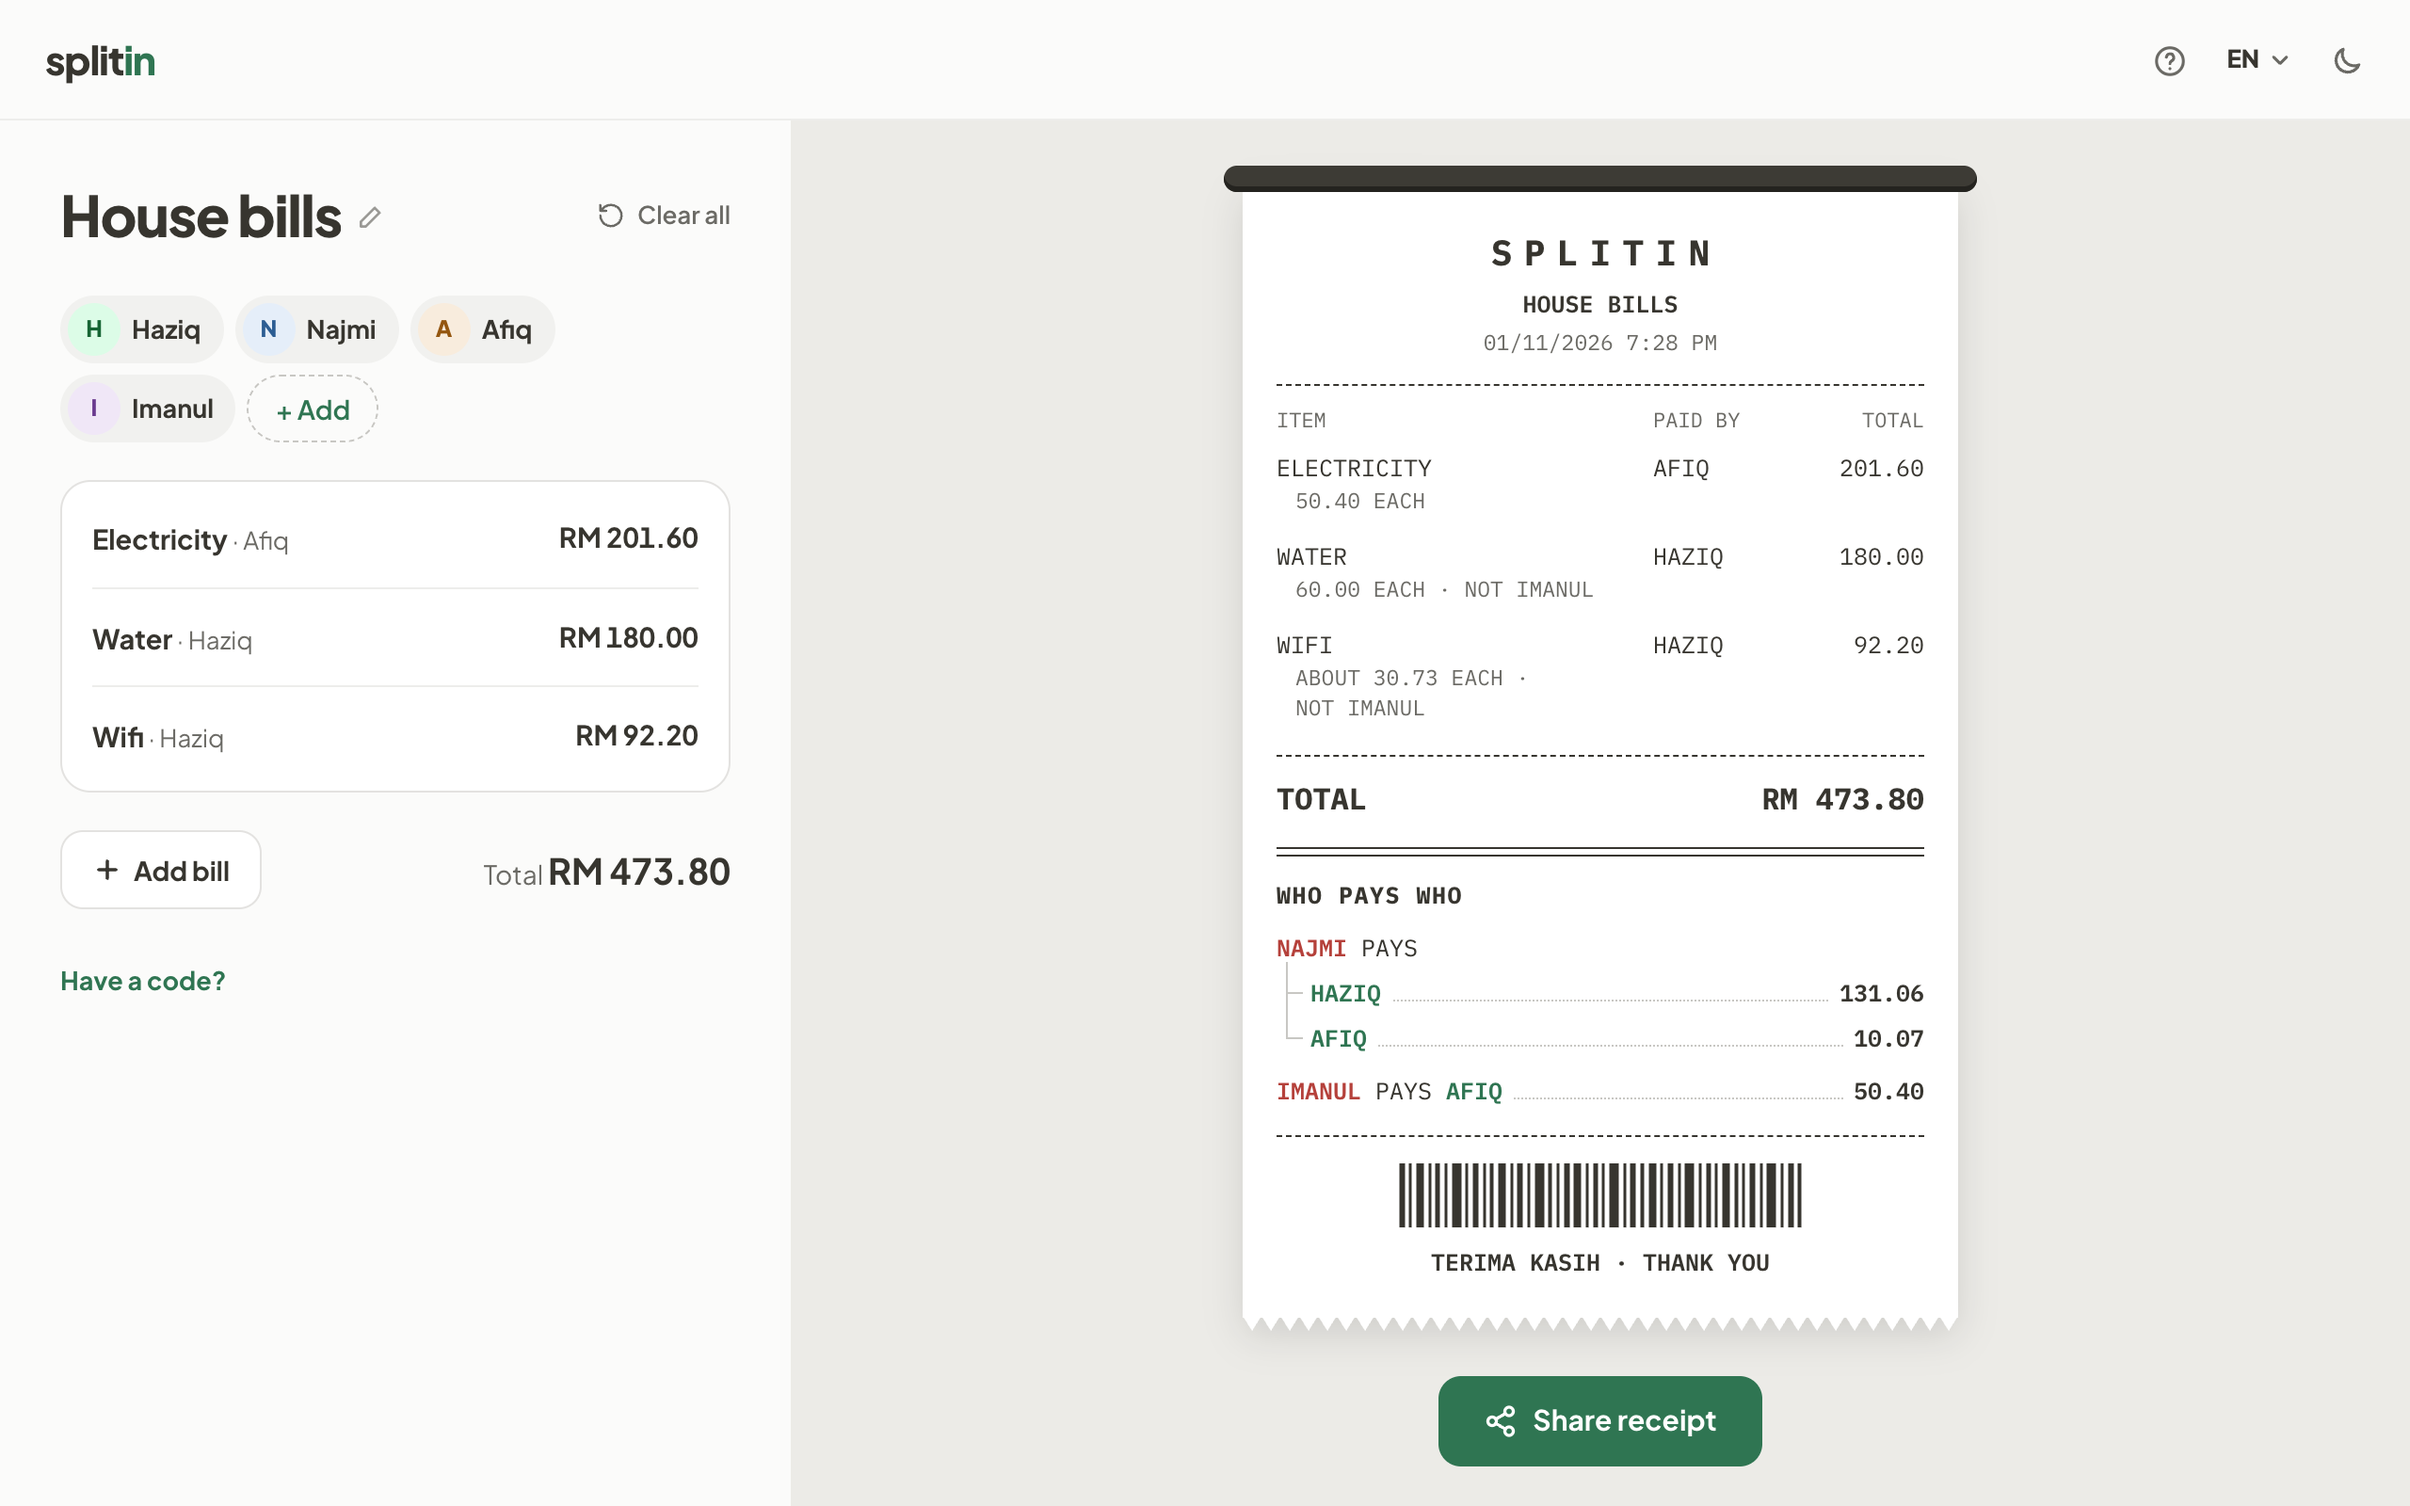
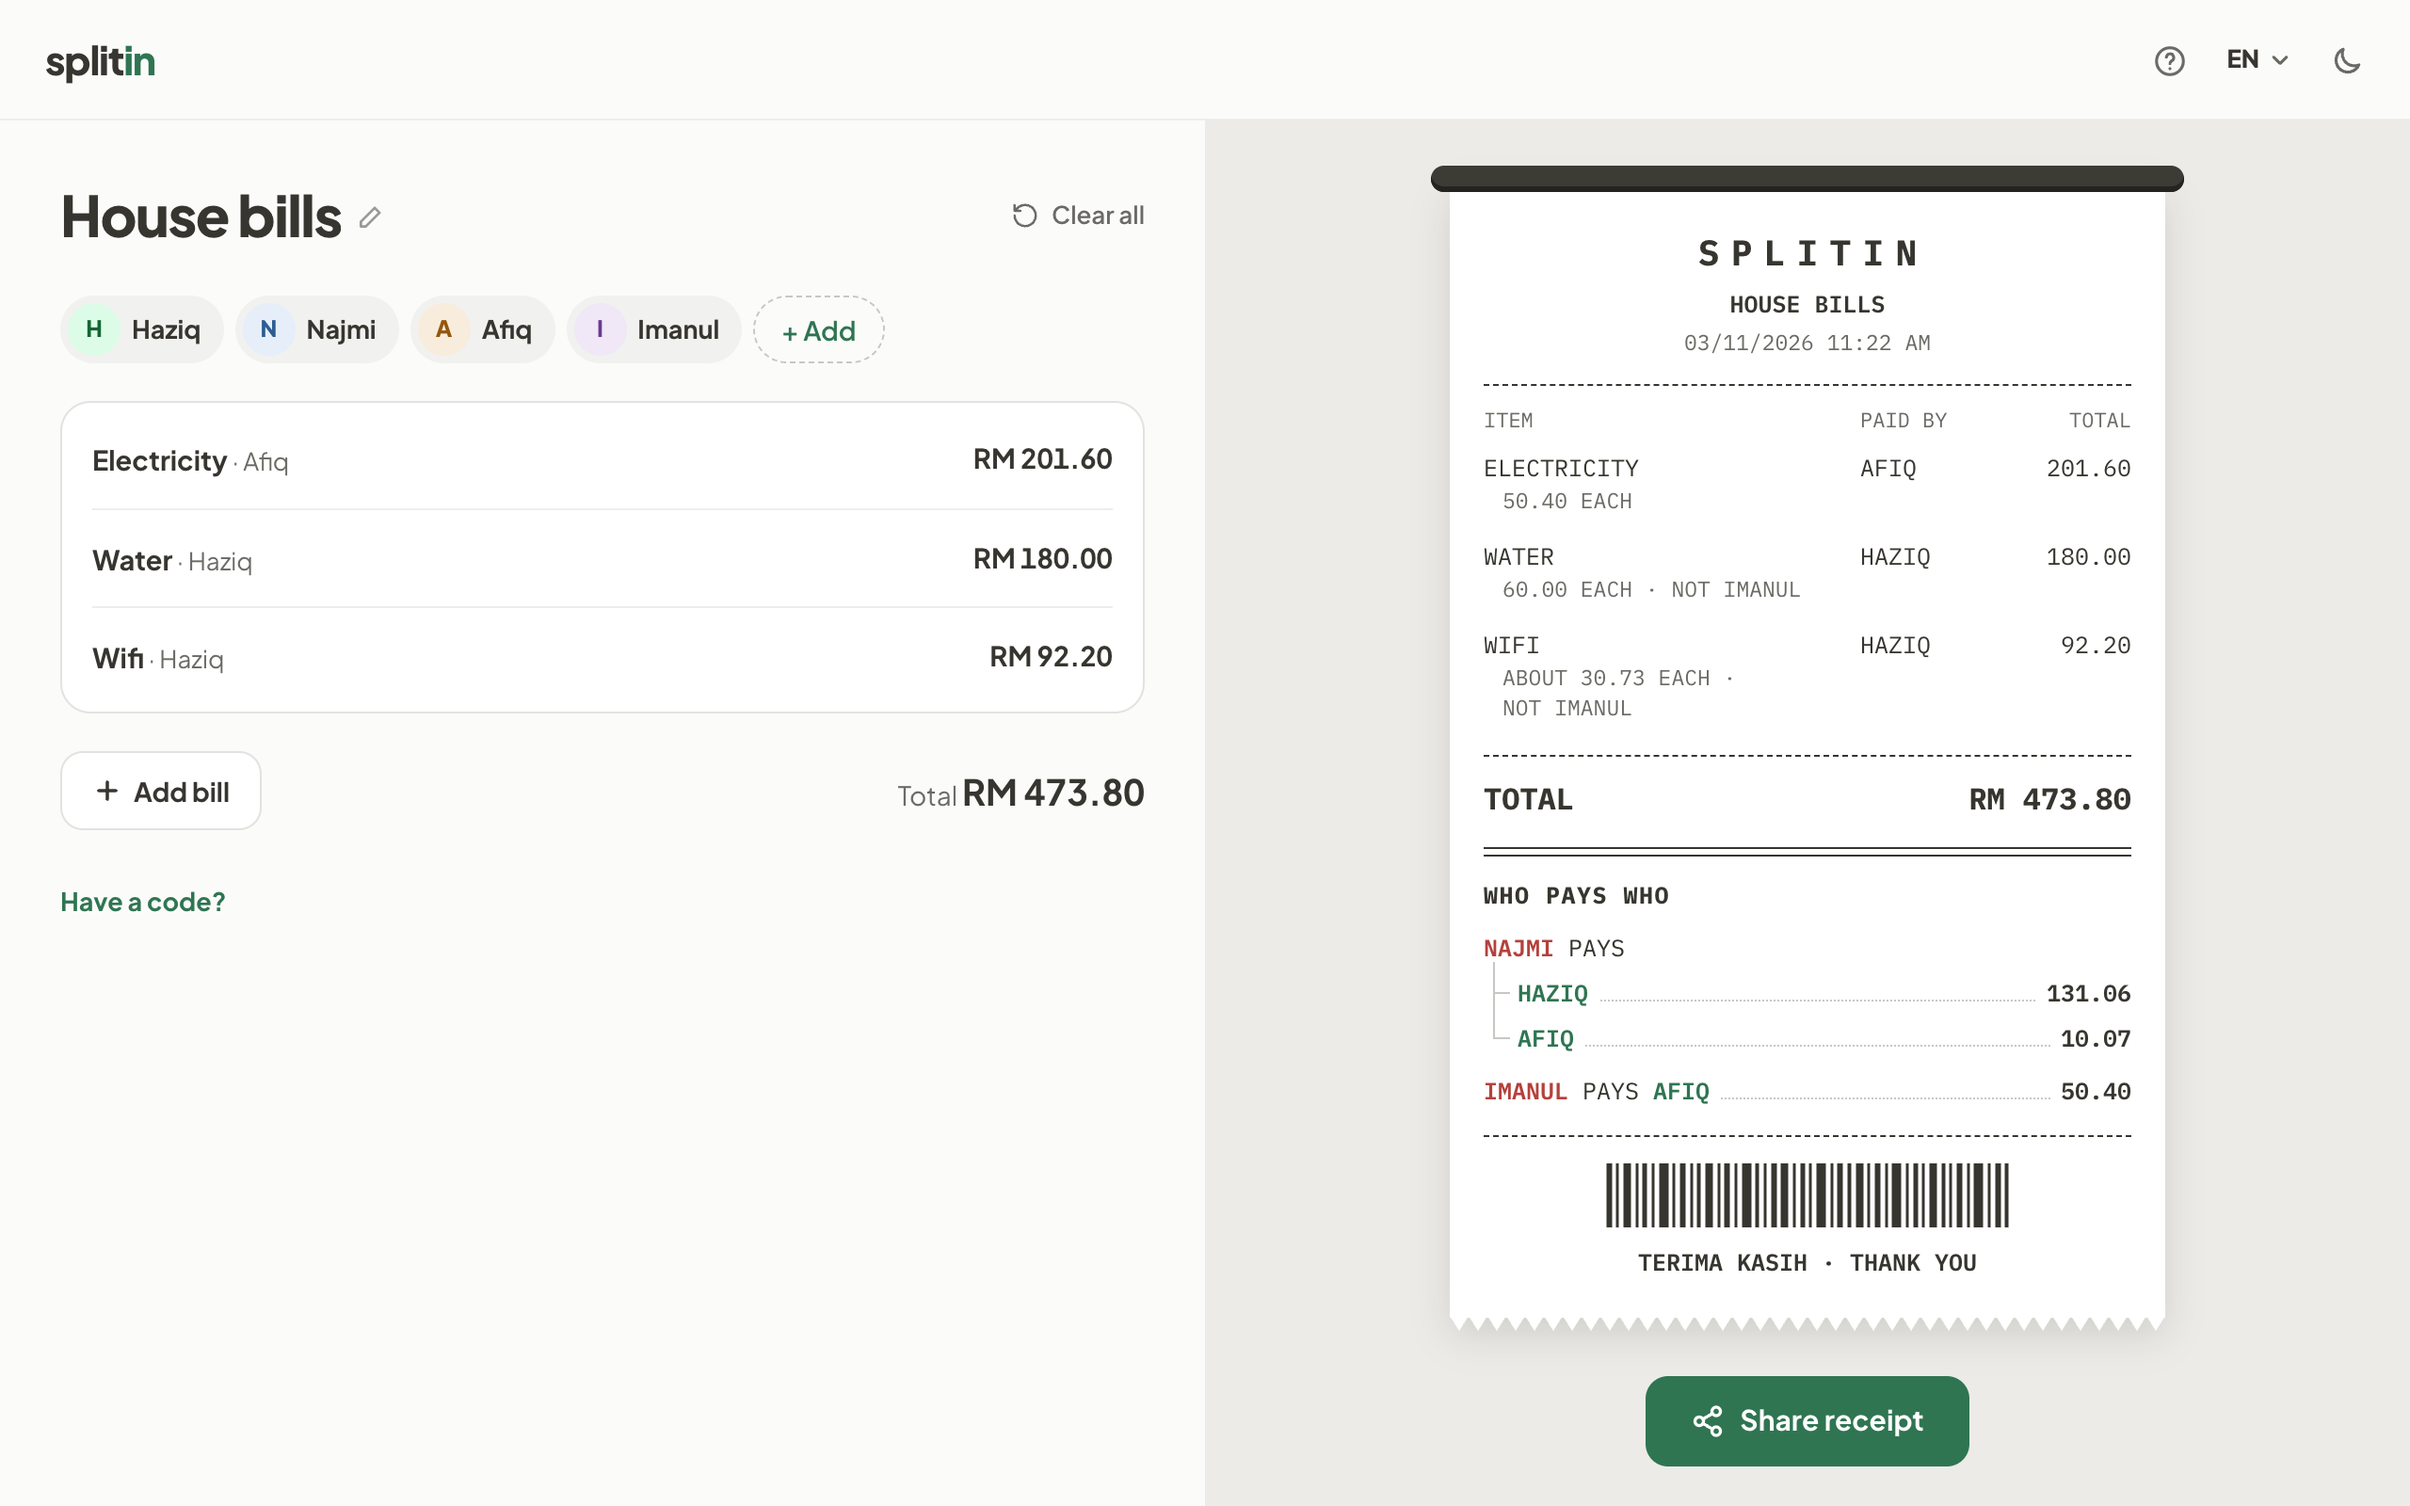
feat: update version to 1.7.3, adjust layout in PrinterPage component, and enhance desktop tests for improved validation

diff --git a/tests/desktop.test.ts b/tests/desktop.test.ts
@@ -55,12 +55,14 @@ test("the panel holds the name, History and the buttons, with the receipt beside
   const add = (await button(page, "Add bill").boundingBox())!;
   const share = (await button(page, "Share receipt").boundingBox())!;
   const paper = (await page.getByText("HOTEL").first().boundingBox())!;
+  const side = (await page.locator("main").boundingBox())!;
   expect(history.x).toBeGreaterThan(hi.x + hi.width);
   expect(Math.abs(history.y + history.height / 2 - (hi.y + hi.height / 2))).toBeLessThan(2);
   expect(add.y).toBeGreaterThan(hi.y);
   expect(share.x).toBeGreaterThan(add.x + add.width);
-  expect(share.x + share.width).toBeLessThanOrEqual(420);
-  expect(paper.x).toBeGreaterThan(420);
+  expect(side.width).toBe(640);
+  expect(share.x + share.width).toBeLessThanOrEqual(side.width);
+  expect(paper.x).toBeGreaterThan(side.width);
 
   await button(page, "Add bill").click();
   await expect(page.getByText("Add what you paid")).toBeVisible();

diff --git a/src/components/receipt/printer.tsx b/src/components/receipt/printer.tsx
@@ -133,7 +133,7 @@ export function PrinterPage({
     return (
       <div className="min-h-dvh bg-bg text-ink">
         <div className="h-16 overflow-hidden bg-bg px-6">{header ?? <Header />}</div>
-        <div className="grid grid-cols-[minmax(340px,420px)_minmax(400px,1fr)]">
+        <div className="grid grid-cols-[minmax(340px,1fr)_minmax(400px,1fr)]">
           <main className="flex min-w-0 flex-col gap-5 px-8 pt-7 pb-16">{side}</main>
           <aside className="sticky top-16 flex h-[calc(100dvh-4rem)] flex-col gap-6 overflow-x-hidden overflow-y-auto bg-tray px-6 pt-6 pb-10 lg:px-10">
             <Printer>{paper}</Printer>
